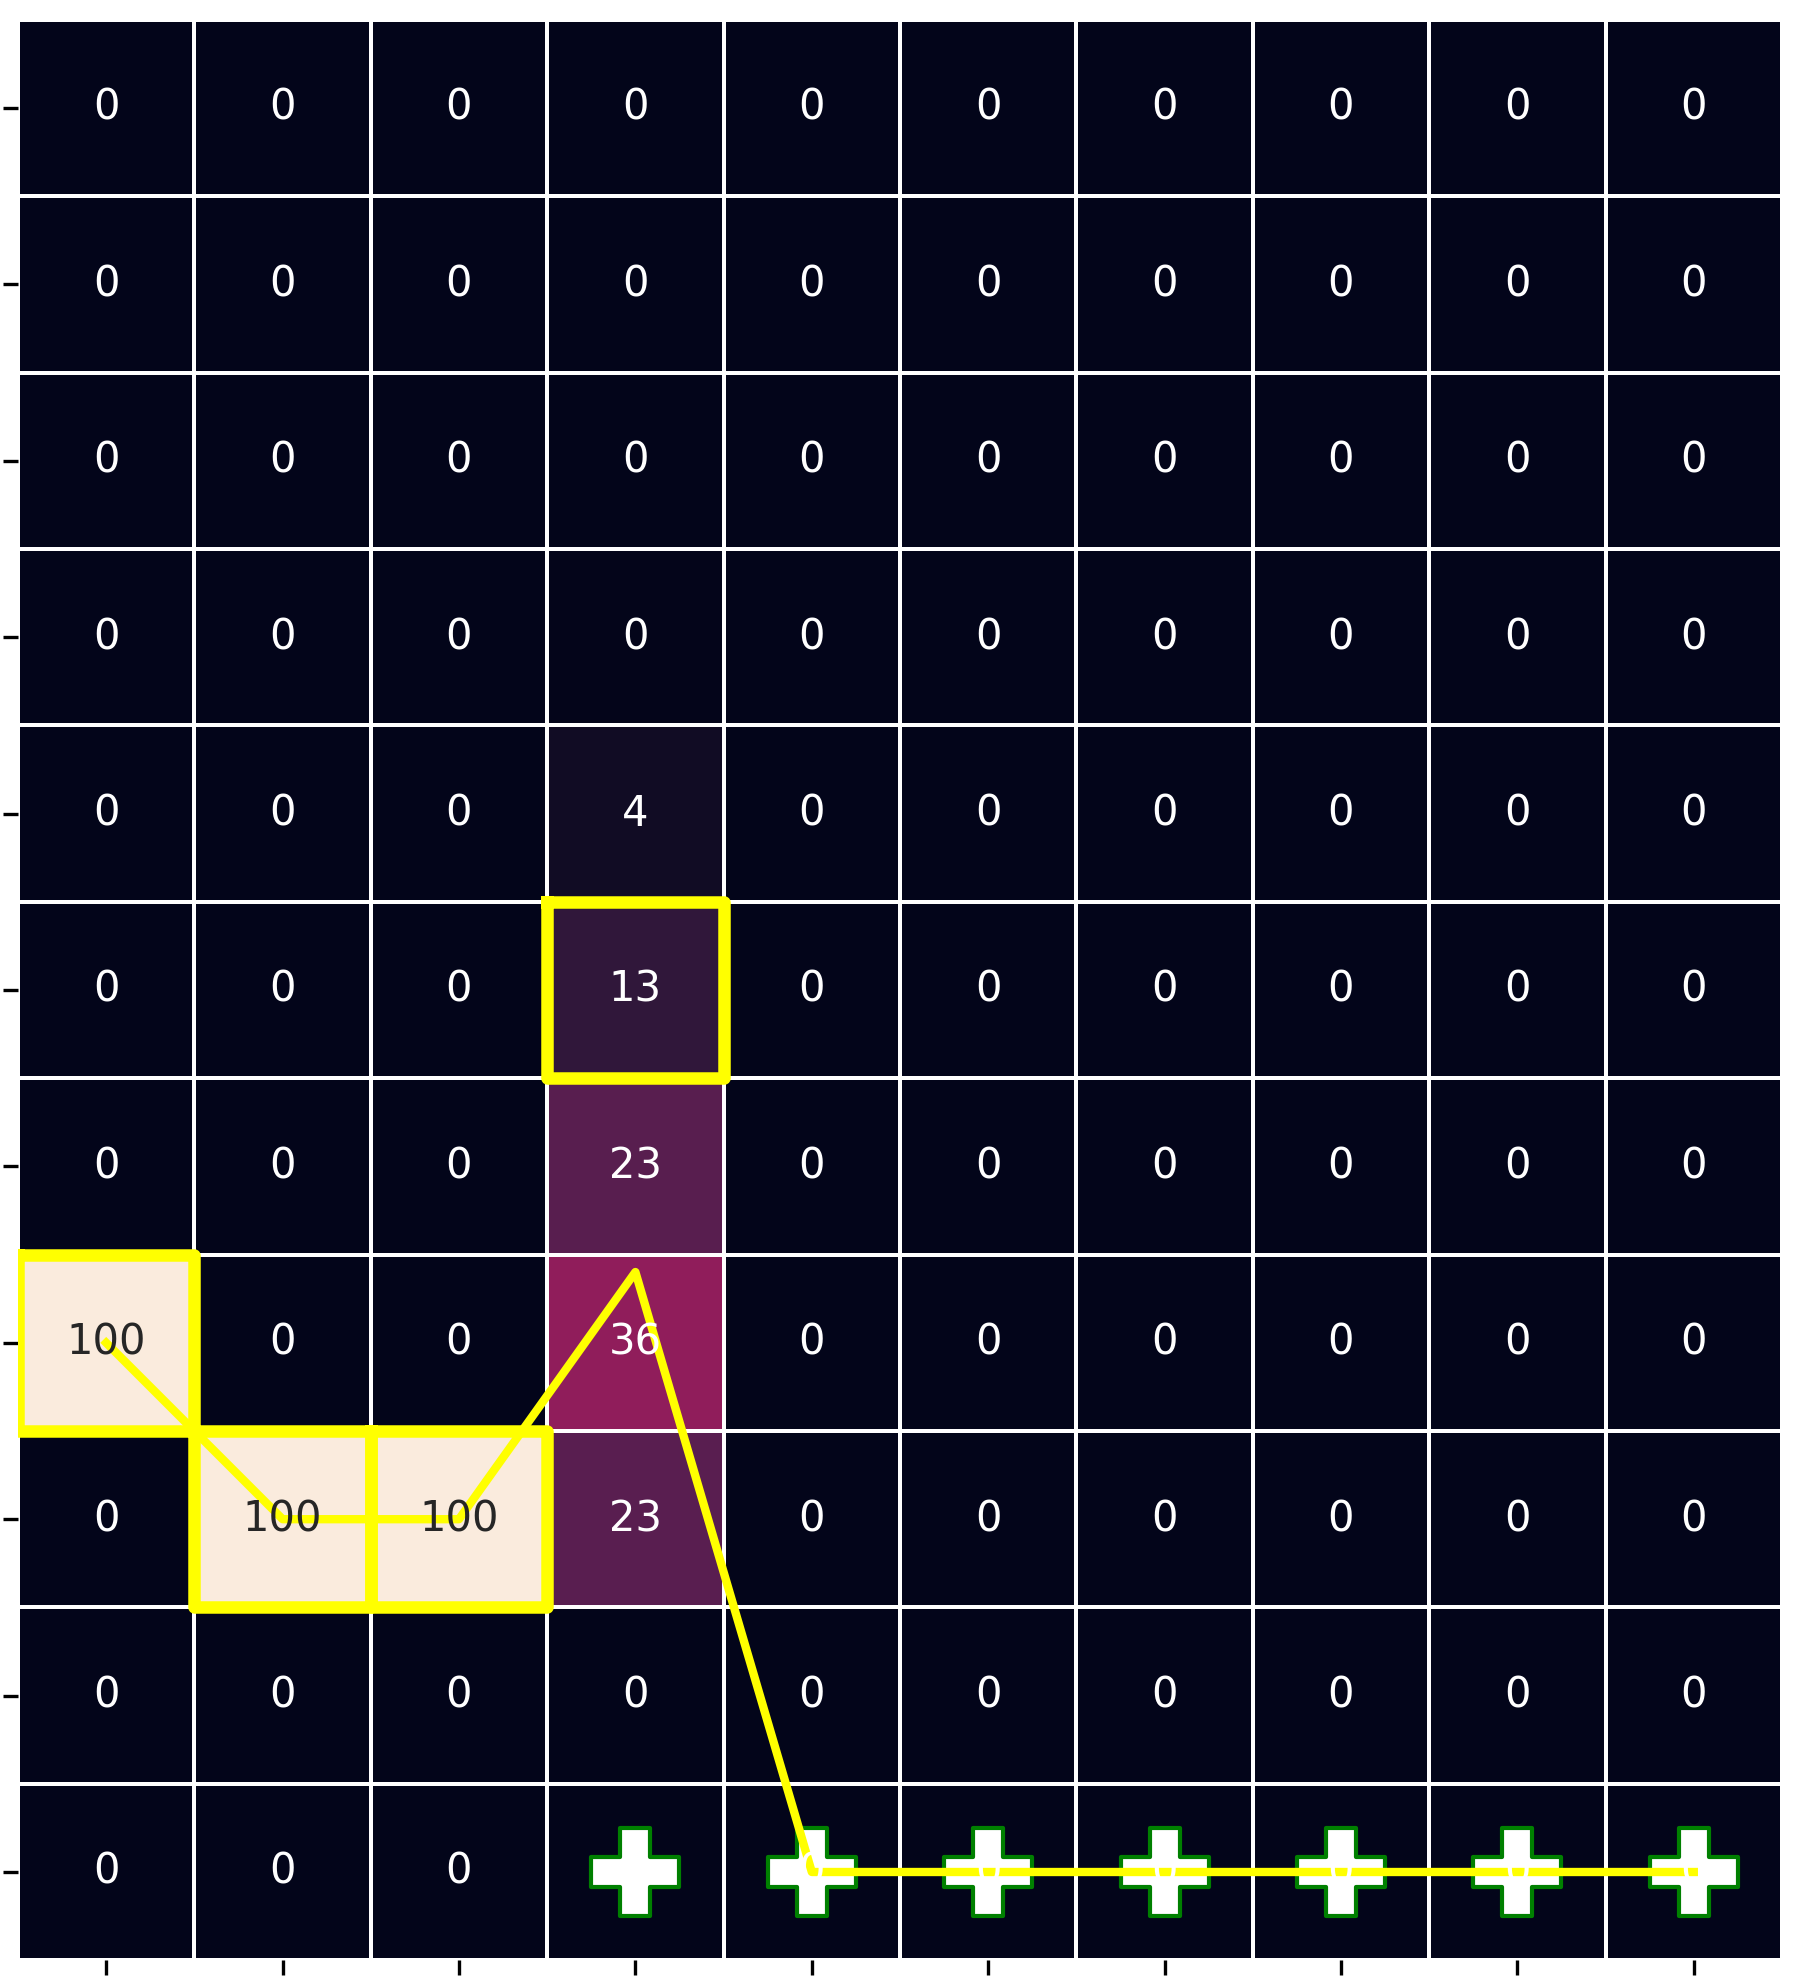
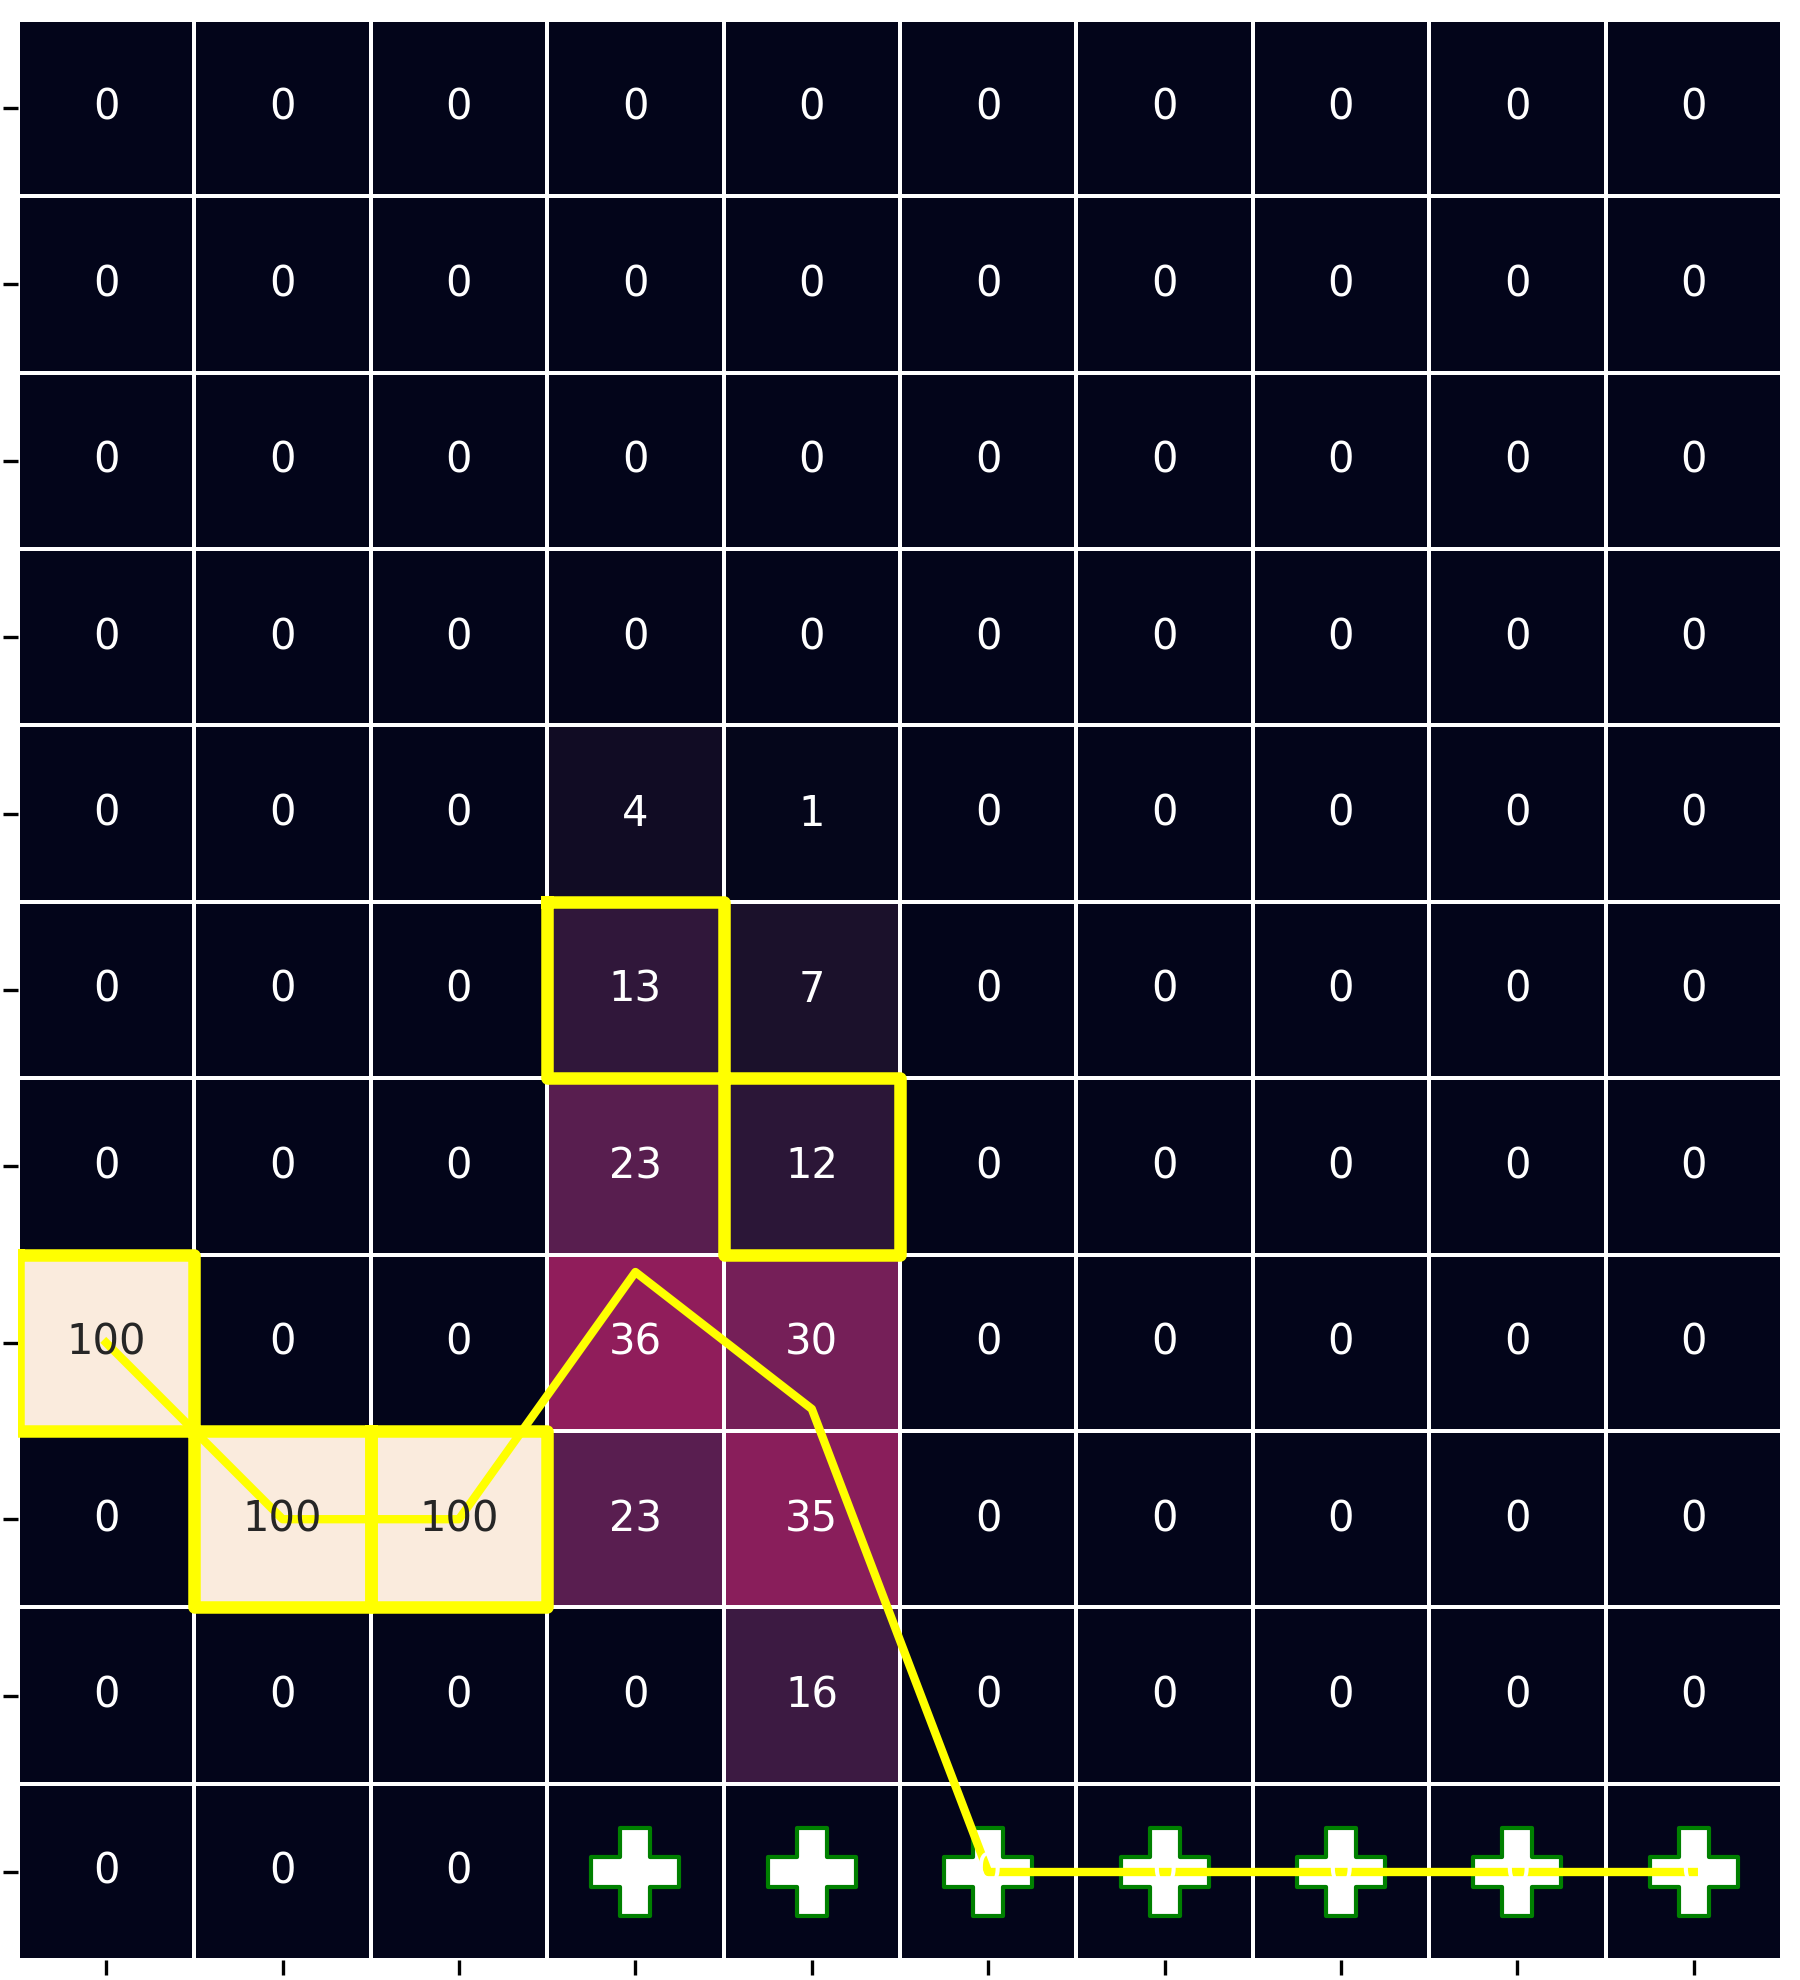
S7 W6 Update

Changed region(s): [[0.3422, 0.4929, 0.56, 0.9551], [0.4356, 0.4005, 0.4667, 0.4313]]

diff --git a/aytorakel.py b/aytorakel.py
@@ -368,8 +368,10 @@ def update_after_new_person_event(data, logs, df, event, week_number):
 def update_after_remove_person_event(data, logs, df, event, week_number):
     """
     One single person of the group of more is removed from the show without revealing their match.
-    This happed so far only to Jimi in Season 5 VIP. He was also part of the mulit match. 
-    All possibilities where he is part of the mathching night can now be removed.
+    This happed so far:
+    - to Jimi in Season 5 VIP. He was know part of the multi match. 
+    - to Alicia in Season 7. She was revealed when leaving as multi match.
+    All possibilities where the person is part of the mathching night can now be removed.
     """
     got = data['group_of_ten']
     gom = data['group_of_more']
@@ -377,6 +379,11 @@ def update_after_remove_person_event(data, logs, df, event, week_number):
     removed_person_idx = gom.index(removed_person)
     # Remove all rows from df, where the removed_person_idx occurs in the coloumns of the group of ten
     df = df[~df[got].isin([removed_person_idx]).any(axis=1)]
+    
+    if event['multi_match']:
+        df = df[df[['mm1','mm2']].isin([removed_person_idx]).any(axis=1)]
+    else:
+        df = df[~df[['mm1','mm2']].isin([removed_person_idx]).any(axis=1)]
     return df 
 
 
@@ -607,7 +614,7 @@ def save_insta_probabilities(data, logs, tight_image_name, event_number, event_n
     elif 'new_person' in event_name:
         event='Nachkommer'
     elif 'remove_person' in event_name:
-        event='Ciao Jimi'
+        event='Ciao Alicia'
     elif 'solution' in event_name:
         event='Auflösung'
     combinations=f'Mögliche Kombinationen:  {remaining_combinations:,}'.replace(',','.')
@@ -1006,12 +1013,12 @@ def save_insta_combinations(data, df, event_number):
         d.text((90+i*(img.width/11), 290), name, fill='red', font=font_18, stroke_width=2, stroke_fill='black', anchor='mm')
 
     # Quick hack to remove Jimi from combinations
-    removed_person = 'Jimi'
-    removed_person_idx = gom.index(removed_person)
-    df_no_duplicates = df[~df[got].isin([removed_person_idx]).any(axis=1)]
+    #removed_person = 'Jimi'
+    #removed_person_idx = gom.index(removed_person)
+    #df_no_duplicates = df[~df[got].isin([removed_person_idx]).any(axis=1)]
     # Hack end
     
-    df_no_duplicates = df_no_duplicates.drop_duplicates(subset='id', keep='first')
+    df_no_duplicates = df.drop_duplicates(subset='id', keep='first')
     df_no_duplicates.reset_index(drop=True, inplace=True)
     for j, row in df_no_duplicates.iterrows():
         for i, name in enumerate(got):
